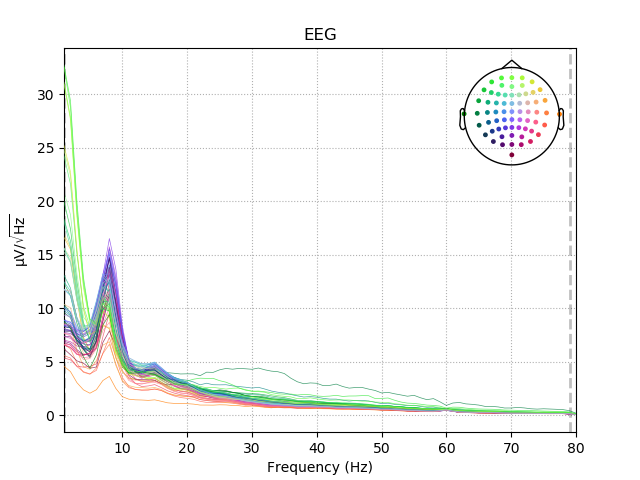
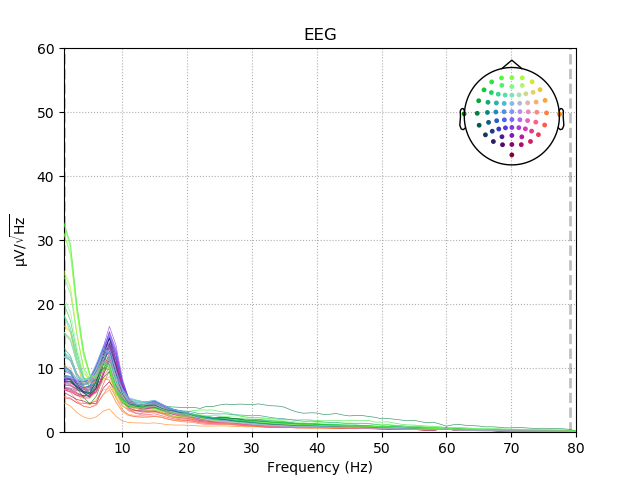
Added whitening of data

Changed region(s): [[0.0625, 0.1562, 0.9062, 0.9062], [0.0625, 0.0938, 0.0938, 0.125]]

diff --git a/preprocessing/S65_R03_07_11_ICA_template_real_movement_proposal_sequential.py b/preprocessing/S65_R03_07_11_ICA_template_real_movement_proposal_sequential.py
@@ -1,7 +1,7 @@
 import numpy as np
 import matplotlib.pyplot as plt
 from mne.datasets import eegbci
-from mne import Epochs, pick_types, events_from_annotations
+from mne import Epochs, pick_types, events_from_annotations, make_ad_hoc_cov
 from mne.io import concatenate_raws, read_raw_edf
 from mne.channels import make_standard_montage
 from mne.preprocessing import ICA, corrmap, read_ica
@@ -109,10 +109,15 @@ def load_data ():
             
             if len_run > 123:
                 raw_run.crop(tmax=124.4) #Taglio la parte finale
+            
+            
                 
             ls_run.append(raw_run) 
             
         ls_run_tot.append(ls_run)
+        
+        
+        
       
         
     return ls_run_tot
@@ -120,27 +125,49 @@ def load_data ():
 raw_loaded = load_data()
 #list of lists of Raw objects of runs to be concatenated
 
+#%% Whitening data
+
+def whitening ():
+    
+    for list in raw_loaded:
+        ls_cov_tot = []
+        
+        for run in range (len(list)):
+            
+            cov = make_ad_hoc_cov(list[run].info) 
+            print(list[run])      
+            
+            ls_cov_tot.append(cov)
+            
+return ls_cov_tot = []
+
+raw_loaded_whitened = whitening()
+
+        
+
+
+
 #%% Concatenate raws 
 
 # returns list of concatenated raw
 # e.g. for subject = [2,45]
 #returns list = [Raw_S2(concatenated), Raw_S45(concatenated)]
+#data = raw_loaded or raw_loaded_whitened
 
-
-def concatenation():
+def concatenation(data):
     
     raw_conc_list = []
     
     for subj in range (len(subjects)):
           #print(subj)
           #print(rawdata_loaded[subj])
-          raw_conc = concatenate_raws(raw_loaded[subj])
+          raw_conc = concatenate_raws(data[subj])
           
           raw_conc_list.append(raw_conc)
         
     return raw_conc_list
 
-raw_conc_list = concatenation()
+raw_conc_list = concatenation(raw_loaded_whitened)
 
 #%% Change channel names, set montage
 
@@ -204,9 +231,12 @@ del_annotations()
 def plot_pre_psd(overwrite = True):
     
      for subj in range(len(subjects)): 
-        
+         
+        plot_pre = plt.figure()
+           
+        plot_pre.clear()
         #Plots psd of filtered raw data
-        plot_pre = raws_filt[subj].plot_psd(area_mode=None, show=True, average=False, fmin =1.0, fmax=80.0, dB=False, n_fft=160)
+        plot_pre = raws_filt[subj].plot_psd(area_mode=None, show=True, average=False, ax=plt.axes(ylim=(0,60)),fmin =1.0, fmax=80.0, dB=False, n_fft=160)
         
         #Creates plot's name
         psd_name = os.path.join(dir_pre_psd,'S'+ str(subjects[subj]) + '_real_pre.png')
@@ -219,17 +249,17 @@ def plot_pre_psd(overwrite = True):
             os.remove(psd_name)
             if os.path.exists(psd_name):
                 raise Exception('You did not remove existing plot!')
-            else: 
+            else:
+                
                 plot_pre.savefig(psd_name)
+              
             
         else:
             plot_pre.savefig(psd_name)
-                           
-                               
-                
-     return plot_pre
-
-plot_pre_psd(overwrite = False)
+            
+                                                                         
+     return None
+plot_pre_psd(overwrite = True)
 
 #Todos: Fix axes plot
 #Todos: if fixed like before cumulates the same plot
